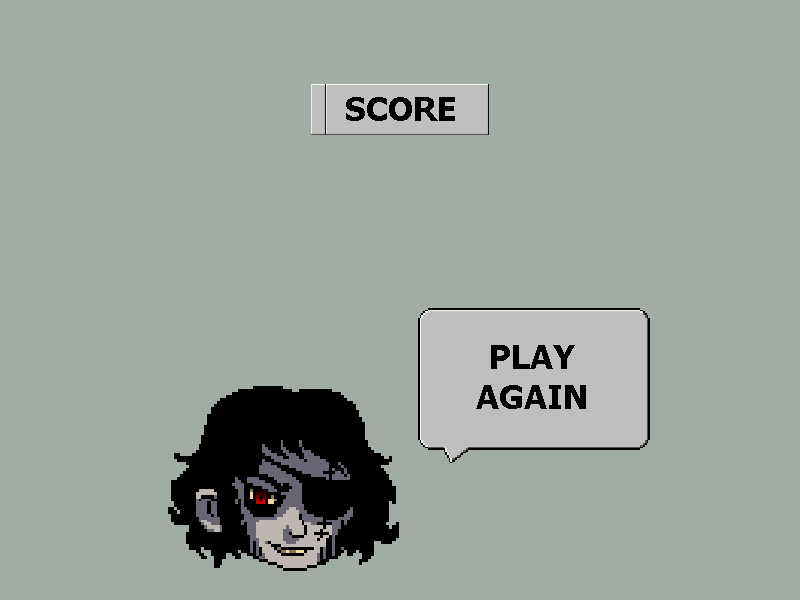
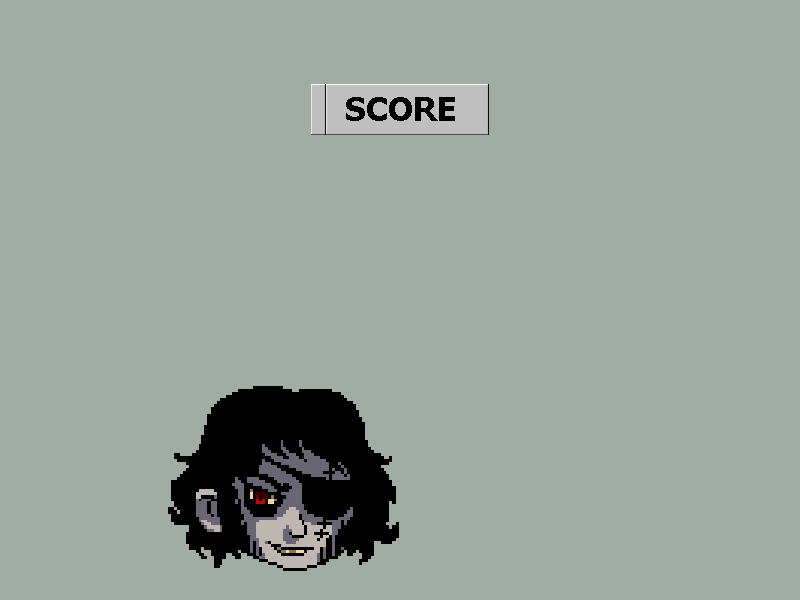
Bouton replay

Changed region(s): [[0.5, 0.51, 0.8125, 0.78]]

diff --git a/src/spammer/ScoresScreen.java b/src/spammer/ScoresScreen.java
@@ -3,6 +3,7 @@ package spammer;
 import org.newdawn.slick.Color;
 import org.newdawn.slick.GameContainer;
 import org.newdawn.slick.Graphics;
+import org.newdawn.slick.Image;
 import org.newdawn.slick.SlickException;
 import org.newdawn.slick.state.StateBasedGame;
 
@@ -16,6 +17,7 @@ public class ScoresScreen extends UIBasicGameState
 {
 	private int score;
 	private boolean playAgain;
+	private Image img;
 	
 	@Override
 	public void init(GameContainer container, StateBasedGame game)
@@ -27,10 +29,10 @@ public class ScoresScreen extends UIBasicGameState
 	public void render(GameContainer container, StateBasedGame game, Graphics g)
 			throws SlickException
 	{
-		g.setColor(Color.gray);
-		g.drawRect(0, 0, 800, 600);
+		img.draw(0, 0);
 		g.setColor(Color.black);
-		g.drawString("Score: "+((Integer)score).toString(), 400, 300);
+		g.setFont(SpammerTheme.fontBig);
+		g.drawString(((Integer)score).toString(), 400, 150);
 		
 	}
 	
@@ -39,7 +41,7 @@ public class ScoresScreen extends UIBasicGameState
 			throws SlickException
 	{
 		super.enter(container, game);
-		
+		img = new Image("assets/screen_score.png");
 		score = GamePlay.get().getScore();
 		playAgain = false;
 	}
@@ -60,15 +62,15 @@ public class ScoresScreen extends UIBasicGameState
 	{
 		ui = new RootPane(container.getWidth(), container.getHeight()); // ecran
 		
-		PushButton retryBtn = new PushButton(ui, 0, 0, 300, 64, "Play again");
-		retryBtn.setAlign(Widget.ALIGN_CENTER, Widget.ALIGN_BOTTOM, 0, 200);
-		retryBtn.addActionListener(new IActionListener() {
+		// Bouton replay
+		ReplayButton btn = new ReplayButton(ui, 400, 275);
+		btn.addActionListener(new IActionListener() {
 			@Override
 			public void actionPerformed(Widget sender) {
 				playAgain = true;
 			}
 		});
-		ui.add(retryBtn);
+		ui.add(btn);
 	}
 
 	@Override

diff --git a/src/spammer/ReplayButton.java b/src/spammer/ReplayButton.java
@@ -1,0 +1,35 @@
+package spammer;
+
+import org.newdawn.slick.GameContainer;
+import org.newdawn.slick.Graphics;
+import org.newdawn.slick.Image;
+import org.newdawn.slick.SlickException;
+
+import backend.ui.PushButton;
+import backend.ui.Widget;
+
+public class ReplayButton extends PushButton
+{
+	private static Image img;
+	
+	public ReplayButton(Widget parent, int x, int y)
+	{
+		super(parent, x, y, 233, 155, "");
+		
+		if(img == null)
+		{
+			try {
+				img = new Image("assets/replay.png");
+			} catch (SlickException e) {
+				e.printStackTrace();
+			}
+		}
+	}
+	
+	@Override
+	public void render(GameContainer gc, Graphics gfx)
+	{
+		img.draw(super.getX(), super.getY());
+	}
+	
+}

diff --git a/src/spammer/GamePlay.java b/src/spammer/GamePlay.java
@@ -21,8 +21,8 @@ import backend.ui.Widget;
 
 public class GamePlay extends UIBasicGameState {
 	private static final int COEF_SCORE = 50;
-	//private static final long END_TIME = 120; // seconds
 	private static final long END_TIME = 120; // seconds
+//	private static final long END_TIME = 1; // seconds
 	private static GamePlay instance;
 	
 	public static GamePlay get()
